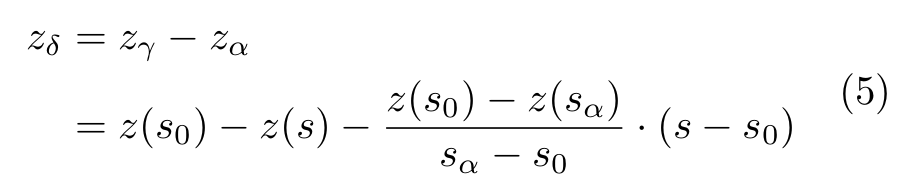
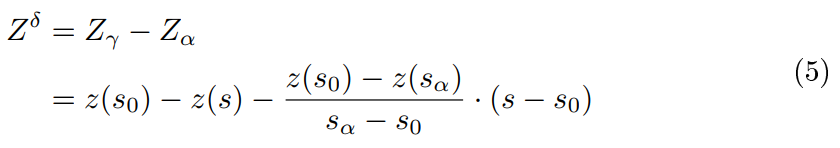
worked on readme

diff --git a/img/equations.tex b/img/equations.tex
@@ -1,0 +1,100 @@
+\documentclass[10pt,a4paper]{article}
+\usepackage[utf8]{inputenc}
+\usepackage[T1]{fontenc}
+\usepackage{amsmath}
+\usepackage{amsfonts}
+\usepackage{amssymb}
+\usepackage{graphicx}
+\usepackage{siunitx}
+
+\begin{document}
+	
+	%total travel / runout angle
+	\begin{equation}
+		\tan(\alpha) = \frac{z(s_0) - z(s_{\alpha})}{s_{\alpha} - s_0}
+	\end{equation}
+
+	%local travel angle
+	\begin{equation}
+		\tan(\gamma) = \frac{z(s_0) - z(s)}{s - s_0}
+	\end{equation}
+	
+	% dissipation energy "height" 	
+	\begin{equation}
+		\begin{split}
+			Z^{\alpha} & = \tan(\alpha) \cdot (s - s_0) \\
+			& =\frac{z(s_0) - z(s_{\alpha})}{s_{\alpha} - s_0} \cdot (s - s_0)
+		\end{split}
+	\end{equation}
+
+	%local travel angle height ()  elevation drop
+	\begin{equation}
+		\begin{split}
+			Z^{\gamma} & = \tan(\gamma) \cdot (s - s_0) \\
+			& =\frac{z(s_0) - z(s)}{s - s_0} \cdot (s - s_0) = z(s_0) - z(s)
+		\end{split}
+	\end{equation}
+
+	% kinetic energy "height" /  elevation drop
+	\begin{equation}
+		\begin{split}
+			Z^{\delta} & = Z_{\gamma} - Z_{\alpha} \\
+			& = z(s_0) - z(s) - \frac{z(s_0) - z(s_{\alpha})}{s_{\alpha} - s_0} \cdot (s - s_0)
+		\end{split}
+	\end{equation}
+	
+	\begin{eqnarray}\label{equation:intensity} 
+		Z^{\alpha}_{bn} &=& S_{bn} \cdot \tan(\alpha), \\
+		Z^{\gamma}_{bn} &=& Z_b -Z_{n}, \\
+		Z^\delta_{bn}  &=& Z^{\gamma}_{bn} - Z^{\alpha}_{bn}.
+	\end{eqnarray}
+
+	%Path equations
+	\begin{equation}
+		S_n = S_b + S_{bn}
+	\end{equation}
+
+	\begin{equation}
+		\begin{split}
+			S_b & = \dfrac{Z_0 - Z_b - Z_b^{\delta}}{\tan(\alpha)}, \\
+			& = \dfrac{Z_b^{\gamma} - Z_b^{\delta}}{\tan(\alpha)}, \\	
+			& = \dfrac{Z_b^{\alpha}}{\tan(\alpha)}
+		\end{split}
+	\end{equation}
+
+	\begin{equation}
+		\begin{split}
+			S_{bn} & = \dfrac{Z_b - Z_n - Z_{bn}^{\delta}}{\tan(\alpha)}, \\
+			& = \dfrac{Z_{bn}^{\gamma} - Z_{bn}^{\delta}}{\tan(\alpha)}, \\	
+			& = \dfrac{Z_{bn}^{\alpha}}{\tan(\alpha)}
+		\end{split}
+	\end{equation}
+
+	\begin{equation}
+			S_n  = \dfrac{Z_n^{\alpha}}{\tan(\alpha)} = \dfrac{Z_b^{\alpha}}{\tan(\alpha)} + \dfrac{Z_{bn}^{\alpha}}{\tan(\alpha)} 
+	\end{equation}
+
+	\begin{equation}\label{equation:persistence}
+		P_i = \sum_{p = 1}^{N_p} \sum_{n=1}^{8} Z^\delta_{p} \cdot D_{n},
+	\end{equation}
+
+	\begin{equation}\label{equation:direction}
+		D_{n} = \max \{ 0,\cos{(\angle _{pbn} - \pi)} \}
+	\end{equation}
+
+	\begin{equation} \label{equation:terrain}
+		%	r_{i}^{t} = \dfrac{\left(\tan \Phi_i \right)^{exp}}{\sum_{j=1}^{8}\left( \Phi_j \right)^{exp}} \ \forall \begin{cases}
+		T_{i} = \dfrac{\left(\tan \Phi_i \right)^{exp}}{\sum_{n=1}^{8}\left(\tan \Phi_n \right)^{exp}} \ \forall \begin{cases}
+			\SI{-90}{\degree} < \phi_i < \SI{90}{\degree} \\
+			exp \in \left[1; +\infty \right]
+		\end{cases}
+	\end{equation}
+
+	$\Phi_i = \dfrac{\phi_i + \dfrac{\pi}{2}}{2}$
+	
+	\begin{equation}\label{equation:routing}
+		%	R_i = \dfrac{r_i^{t} \cdot r_i^{p}}{\sum_{j=1}^{8} r_j^{t} \cdot r_j^{p}} \cdot R_0 ,
+		R_i = \dfrac{T_i \cdot P_i}{\sum_{n=1}^{8} T_n \cdot P_n} \cdot R_b 
+	\end{equation}
+	
+\end{document}

diff --git a/readme.md b/readme.md
@@ -2,15 +2,10 @@
 
 Flow-Py is an adaptable open source implementation of existing approaches to GMM (gravitational mass movements) run out models. The main objective of this tool is to compute the spatial run out distribution (routing and stopping) for GMMs in three dimensional terrain. This model has been designed to be computationally light, allowing it application on a regional scale. 
 
-The data based (empirical) modeling approach Flow-Py combining routing and stopping run out in three dimensional terrain allowing to identify process areas and corresponding magnitudes. The model is motivated by a combination of existing process and data based approaches, requiring a minimum of input data, providing valuable output. By considering the spatial evolution (no temporal evolution equations are solved in the model) the resulting run out is mainly dependent by the terrain and the location of the starting point
+The data based (empirical) modeling approach of Flow-Py, combining routing and stopping run out in three dimensional terrain, allows to identify process areas and corresponding magnitudes. The model is motivated by a combination of existing process and data based approaches, requiring a minimum of input data, providing valuable output. By considering the spatial evolution (no temporal evolution equations are solved in the model) the resulting run out is mainly dependent by the terrain and the location of the starting point
 
-The model is written in Python to keep it easy adjustable. The run out routine of Flow-Py is based on the principles of energy 
-conservation including frictional dissipation assuming simple coulomb friction, leading to constant travel-angle. 
-Potential release areas and the corresponding travel angle have to be adapted for each type of gravitational mass movements. 
-A important improvement, compared to similar models, is that it can handle mass movement in flat and uphill terrain. 
-One major advantage of this model is its simplicity, resulting in a computationally inexpensive implementation, which 
-allows for an application on a regional scale, covering large simulation areas. The adaptivity of the model further 
-allows to consider existing infrastructure and to detect starting zones endangering the corresponding areas in a back-calculation step. 
+The model is written in Python to keep it easy adjustable. The run out routine of Flow-Py is based on the principles of energy conservation including frictional dissipation assuming simple coulomb friction, leading to constant travel-angle. Potential release areas and the corresponding travel angle have to be adapted for each type of gravitational mass movements. 
+A important improvement, compared to similar models, is that it can handle mass movement in flat and uphill terrain. One major advantage of this model is its simplicity, resulting in a computationally inexpensive implementation, which allows for an application on a regional scale, covering large simulation areas. The adaptivity of the model further allows to consider existing infrastructure and to detect starting zones endangering the corresponding areas in a back-calculation step. 
 
 ## Running the Code
 
@@ -68,16 +63,16 @@ All Layers need the exact same extend. If not, the Code will give you feedback w
     Saves the &gamma; angle, while the distances are calculated via a straight line from the release cell to the current cell
 ## Calculation Steps
 
+Here we will go through all calculation steps as they are in the code under: flow_class.calc_distribution()
+
 ### z_delta 
 
 ![Image](img/Motivation_2d.png)
 *Fig. 1: Definition of angles and distances for the calculation of z_delta, where s is the distance along the path and z(s) the corresponding altitude.*
 
-The model equations that control the avalanche run out in three dimensional terrain are mostly motivated with respect to simple two dimensional concepts, that control the main routing and final stopping of the flow.
+The model equations that control the run out in three dimensional terrain are mostly motivated with respect to simple two dimensional concepts, that control the main routing and final stopping of the flow.
 
-Figure 1 summarizes the basic concept of a constant run out angle with the corresponding geometric relations in two dimensions along a possible process path.
-
-The Motivation for the equations that are solved to calculate the runout distance, comes from a simple 2D model with a defined maximum runout angle alpha.
+Figure 1 summarizes the basic concept of a constant run out angle (alpha) with the corresponding geometric relations in two dimensions along a possible process path.
 
 ![tan_alpha](img/tan_alpha.png)
 
@@ -85,15 +80,17 @@ The angle gamma is defined by the height and distance difference from the releas
 
 ![tan_gamma](img/tan_gamma.png)
 
-The angle delta is the difference between gamma and alpha, so when delta equals zero or gamma equals alpha, the maximum runout distance is reached and the calculation stops.
+The angle delta is the difference between gamma and alpha and can be interpreted as the energy left in the process, so when delta equals zero or gamma equals alpha, the maximum runout distance is reached and the calculation stops.
 
 ![z_alpha](img/z_alpha.png)
 
-... energy in the process... z_alpha can be interpreted as dissipation energy
+Z_alpha can be interpreted as dissipation energy.
 
 ![z_gamma](img/z_gamma.png)
 
-Z_gamma can be interpreted as the energy left in the system and Z_delta is again the difference between Z_gamma and Z_alpha, so when Z_delta is lower or equal zero the calculation stops.
+Z_gamma is the height difference between the starting point and the current calculation step at s. 
+
+Z_delta is the difference between Z_gamma and Z_alpha, so when Z_delta is lower or equal zero the calculation stops. Z_delta can also be interpreted as the energy left in the process.
 
 ![z_delta](img/z_delta.png)
 
@@ -103,71 +100,80 @@ To bring this thoughts now from the 2D model to a 3D grid we must implement a fe
 
 First we need to bring in the definition for base. This is the current raster cell we are looking at, and from which we do our calculations. This would be at distance s along the path in Fig. 1. 
 
-Every base can have one or more parents, except the starting cell, where we start our calculation, this would be s = s_0 in Fig. 1.
+Every base can have one or more parents, except the starting cell, where we start our calculation, this would be at s = s_0 in Fig. 1.
 
-From the base we solve now the equations ... for every neighbor n, if Z_bn^{delta} is higher then zero, this neighbor is defined as a child of this base, and spreading is allowed in this direction.
+From the base we solve now the equations (6,7 and 8) for every neighbor n, if Z_bn^{delta} is higher then zero, this neighbor is defined as a child of this base, and spreading is allowed in this direction.
 
 ![z_delta_i](img/z_delta_array.png)
+
+Here S_bn is the path between the base and the neighbour.
 
 As Z_bn^{delta} can be interpreted as (kinectic energy? or velocity) we implemented a maximum value for this. Regarding physical models this would correspond to a turbulent friction. 
 
 ![z_delta_max](img/z_delta_max.png)
 
-Equations for S_n...
+The path to one of the neighbors (S_n) equals the path to the base (S_b) plus the path from base to the neighbor (S_bn) (Eq. 9). 
 
-With this equations we determine the maximum distance for the process, in the next steps we will explain how we handle and calculate the spreading on the 3D grid.
+![S_n_eq1](img/S_n_eq1.png)
+
+As there are many possibilities for the path from the starting point to our current base, we just take into account the shortest path, which corresponds to the highest Z_delta in the base. If Z_delta,max is set to infinity, or as in the code to 8898 m (= Mount Everest), we can calculate the shortest path from the starting point to our base with Eq. 10. 
+
+![S_b](img/S_b.png)
+
+![S_bn](img/S_bn.png)
+
+![S_n_eq2](img/S_n_eq2.png)
+
+With this equations we determine the maximum run out distance for the process, in the next steps we will explain how we handle and calculate the spreading on the 3D grid.
+
+
+
+### Persistence Function
+
+The persistence function P_i aims to reproduce the behavior of inertia, and weights the flow 
+direction based on the change in direction with respect to the previous direction [3].
+We introduced to scale the direction with Z_delta of the incoming direction (Z_delta,parent), 
+so the direction from a cell with higher Z_delta will have more affect to the directions where the base cell spreads.
+
+![](img/persistence.png)
+
+The weights are defined by the cosine of the angle between parent, base and child/neighbor minus pi:  
+![](img/persistence_cos_function.png)
+
+So there are max. 3 childs that get input via the persistence function from one parent.
+
+What if I'm a startcell???
+
+
 
 ### Terrain based routing
 
 The terrain based routing is dependent on the slope angle. The Holmgren (1994) algorithm [1] is used in different kind of models and works well for avalanches but also rockfall or soil slides.
 The exponent exp allows to control the divergence of the spreading. For avalanches a exponent of 8 shows good results.
-To reach a single flow in step terrain, an exponent of 75 is considered.
+To reach a single flow in step terrain (rockfall, soil slides, steepest descend), an exponent of 75 is considered.
 
 ![Holmgrem](img/flow_direction.png)
 *Holmgrem Algorithm from 1994 [1]*
 
-In this equation i, j are the flow directions, T_i the flux proportion in direction i, 
-tan(beta_i) the slope gradient between the base cell and the cell in direction i, and exp the variable exponent. 
-When the exponent increases, the divergence is reduced up to resulting into a single flow direction when 
-exp &rightarrow; &infin;. This parameter allows to control the spreading and to reproduce a wide range of other flow 
-accumulations.
-This approach works for tan(beta) > 0. To take in account flow in flat terrain and upwards, in this case 
-tan(beta) < 0, this approach was changed to the range for tangents from -90 degrees to 90 degrees, as seen in 
-Fig. 2.
 
-![Tan_Beta_Formula](img/tan_beta_formula.png)
 
-![tanBetaImage](img/holmgren_vs_new.png)
+![Phi_Formula](img/Phi.png)
+
+![Phi_diss](img/Phi_diss.png)
 *Fig. 2: Distribution functions for terrain based routing, in red the standard Holmgrem, in blue our modification*
 
-### Persistence Function
 
-The persistence function P_i aims to reproduce the behavior of inertia, and weights the flow 
-direction based on the change in direction with respect to the previous direction (see Fig. 3) [3].
-We introduced to scale the direction with z_delta of the incoming direction (z_delta,parent), 
-so the direction from a cell with higher z_delta will have more affect to the directions where the base cell spreads.
-
-![](img/persistence.png)
-
-The weights are defined by the cosine of the direction angles:  
-![](img/persistence_cosinetable.png)
-
-![](img/persistence_image.png)
-*Fig. 3: jkh*
 
 ### Flux 
 
-The values given by the flow direction algorithm and the weighting of the persistence are combined according to Eq.(13)
+The values given by the terrain based routing and the persistence function are combined according to Eq.(16).
 
-![](img/susceptibility.png)
+![](img/flux.png)
 
-where i, j are the flow directions, p_i is the susceptibility value in direction i, p_i^(fd) 
-the flow proportion according to the flow direction algorithm, p_i^p the flow proportion according 
-to the persistence, and p_0 the previously determined susceptibility value of the central cell. 
-For a release cell p_0 equals one. \
-The result of Eq.(13) is a 3 x 3 array with assigned susceptibility values. A normalization stage is then 
-required to bring the sum of the cells to the value of p_0. 
-This aims at avoiding loss of susceptibility [2].
+, where i is the direction and n are the neighbors from 1 to 8. R_i is then the flux that flows in direction i.
+R_b is the flux in the base, for a release cell or starting cell the flux of the base equals one. \
+The result of Eq. (16) is a 3 x 3 array with assigned flux values. A normalization stage is then 
+required to bring the sum of the R_i's to the value of R_b. This aims at avoiding loss of flux [2].
 
 ### References
 
